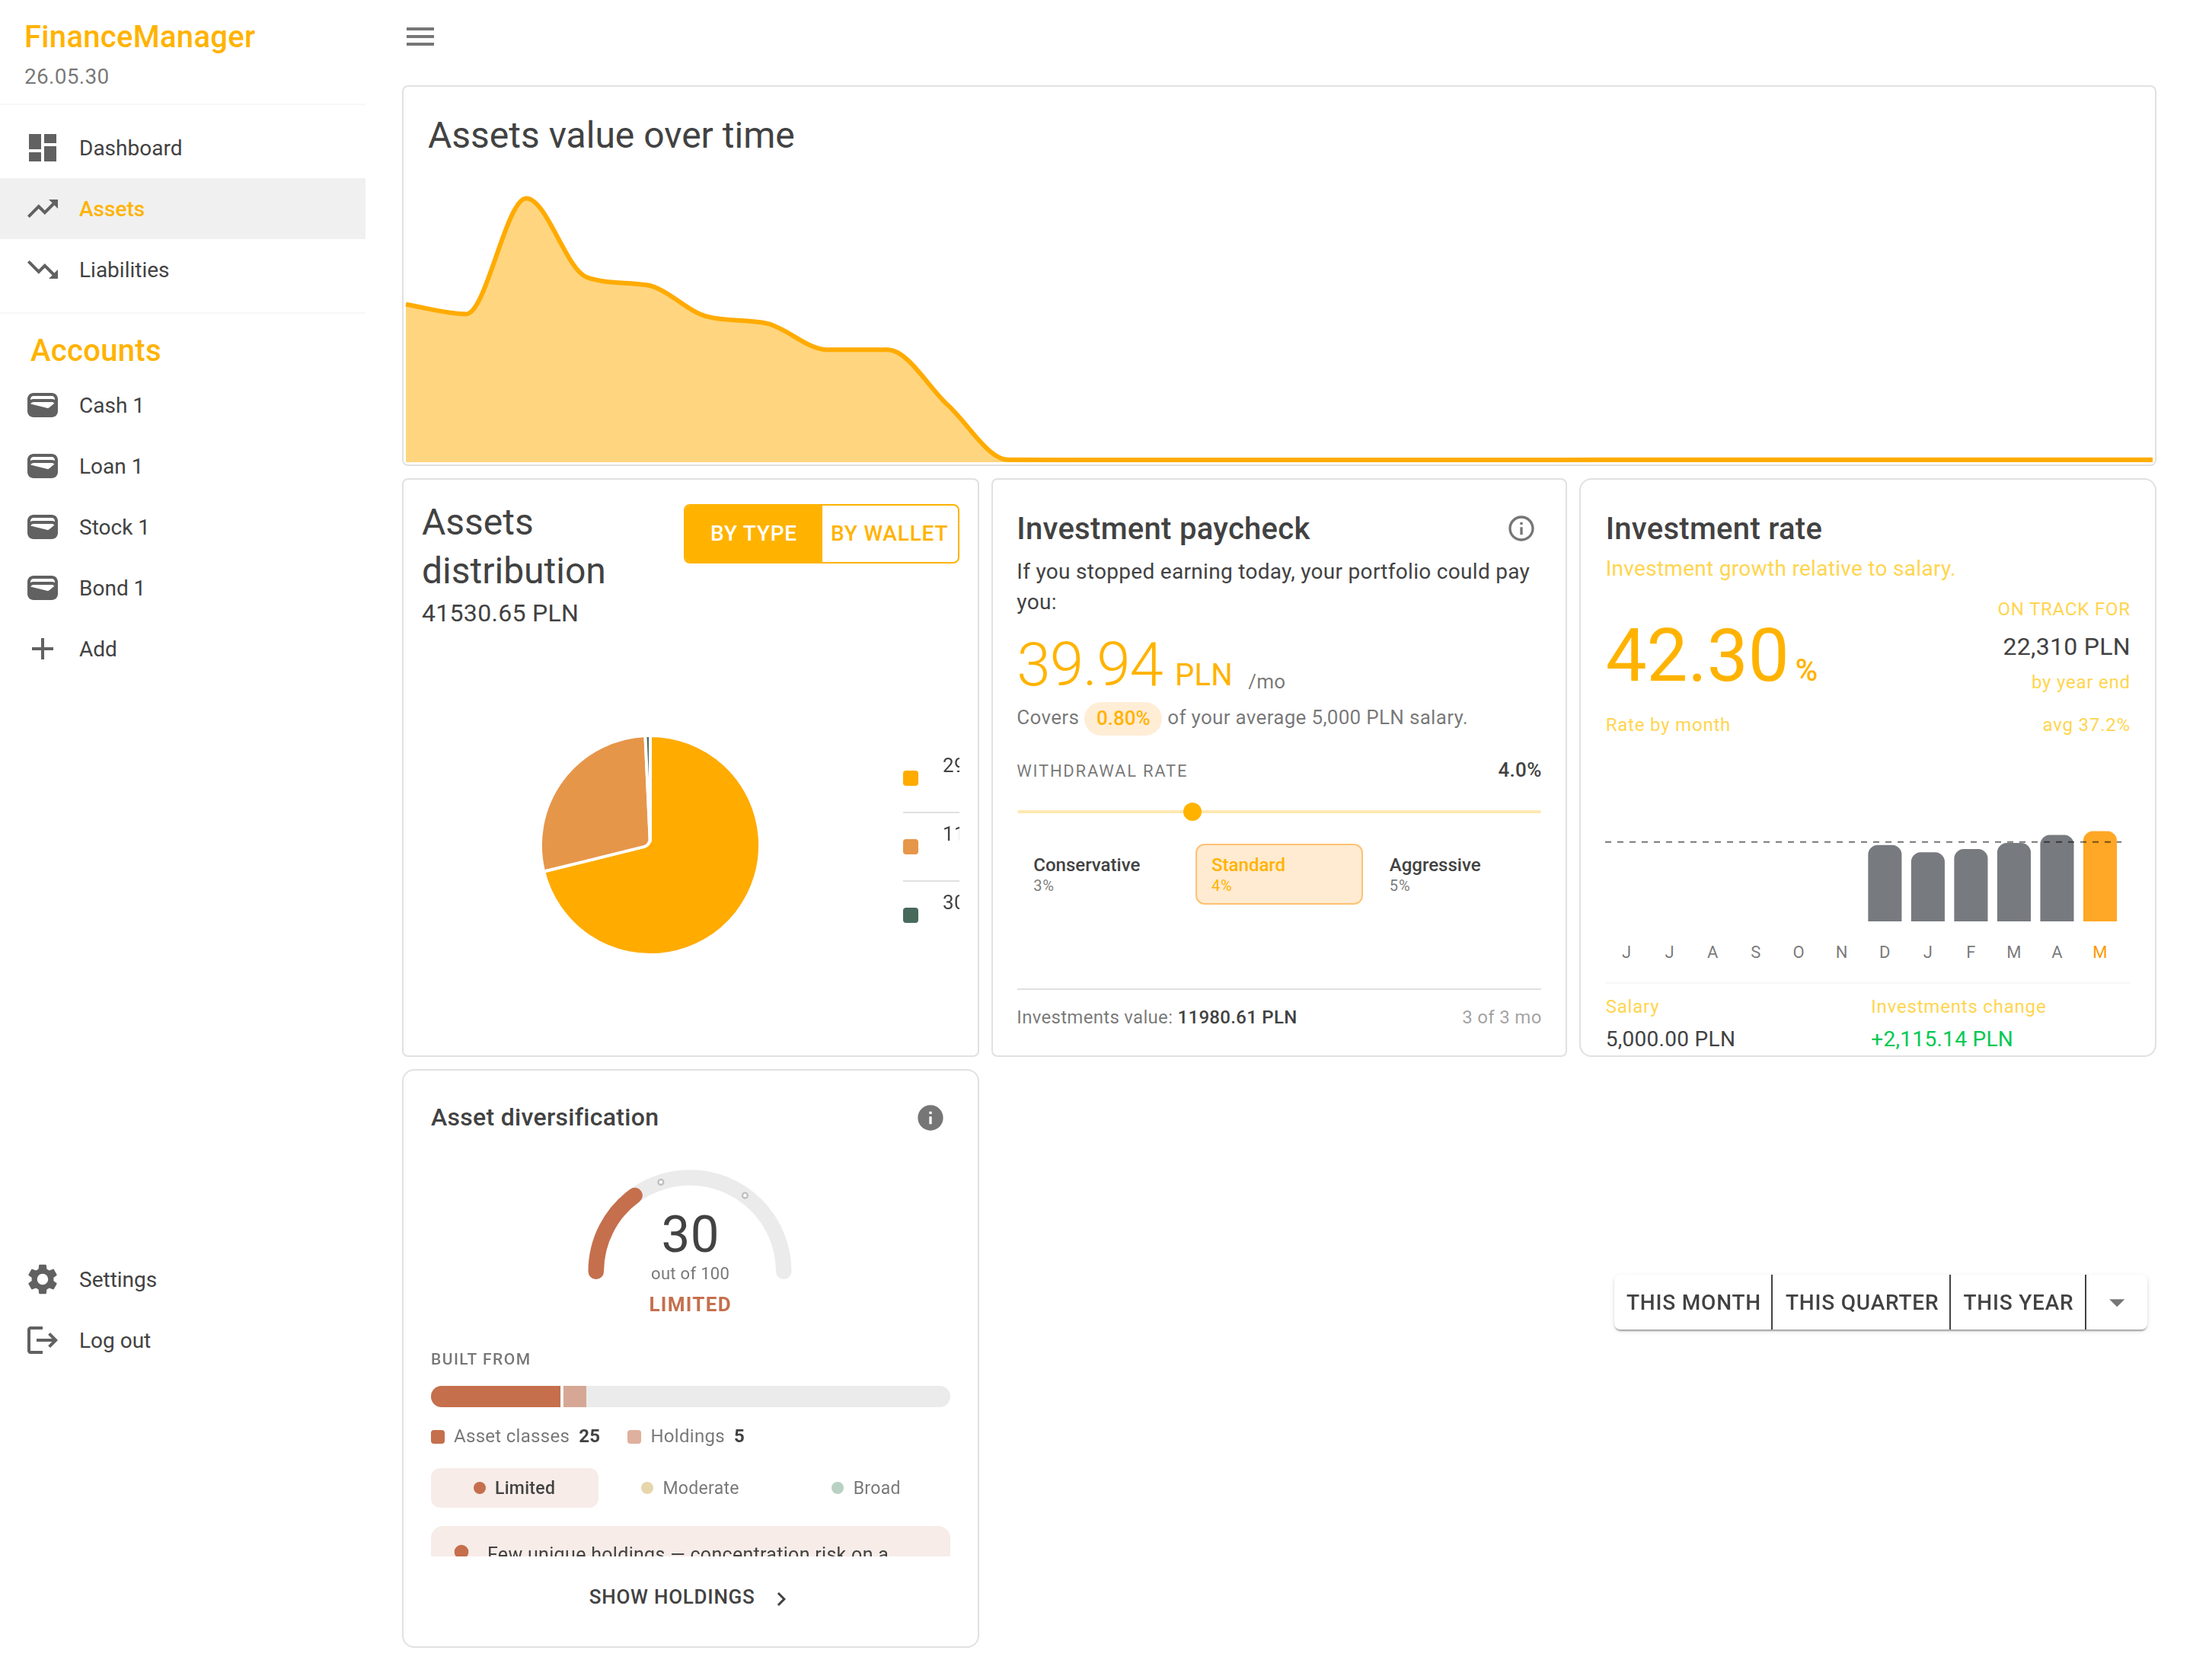
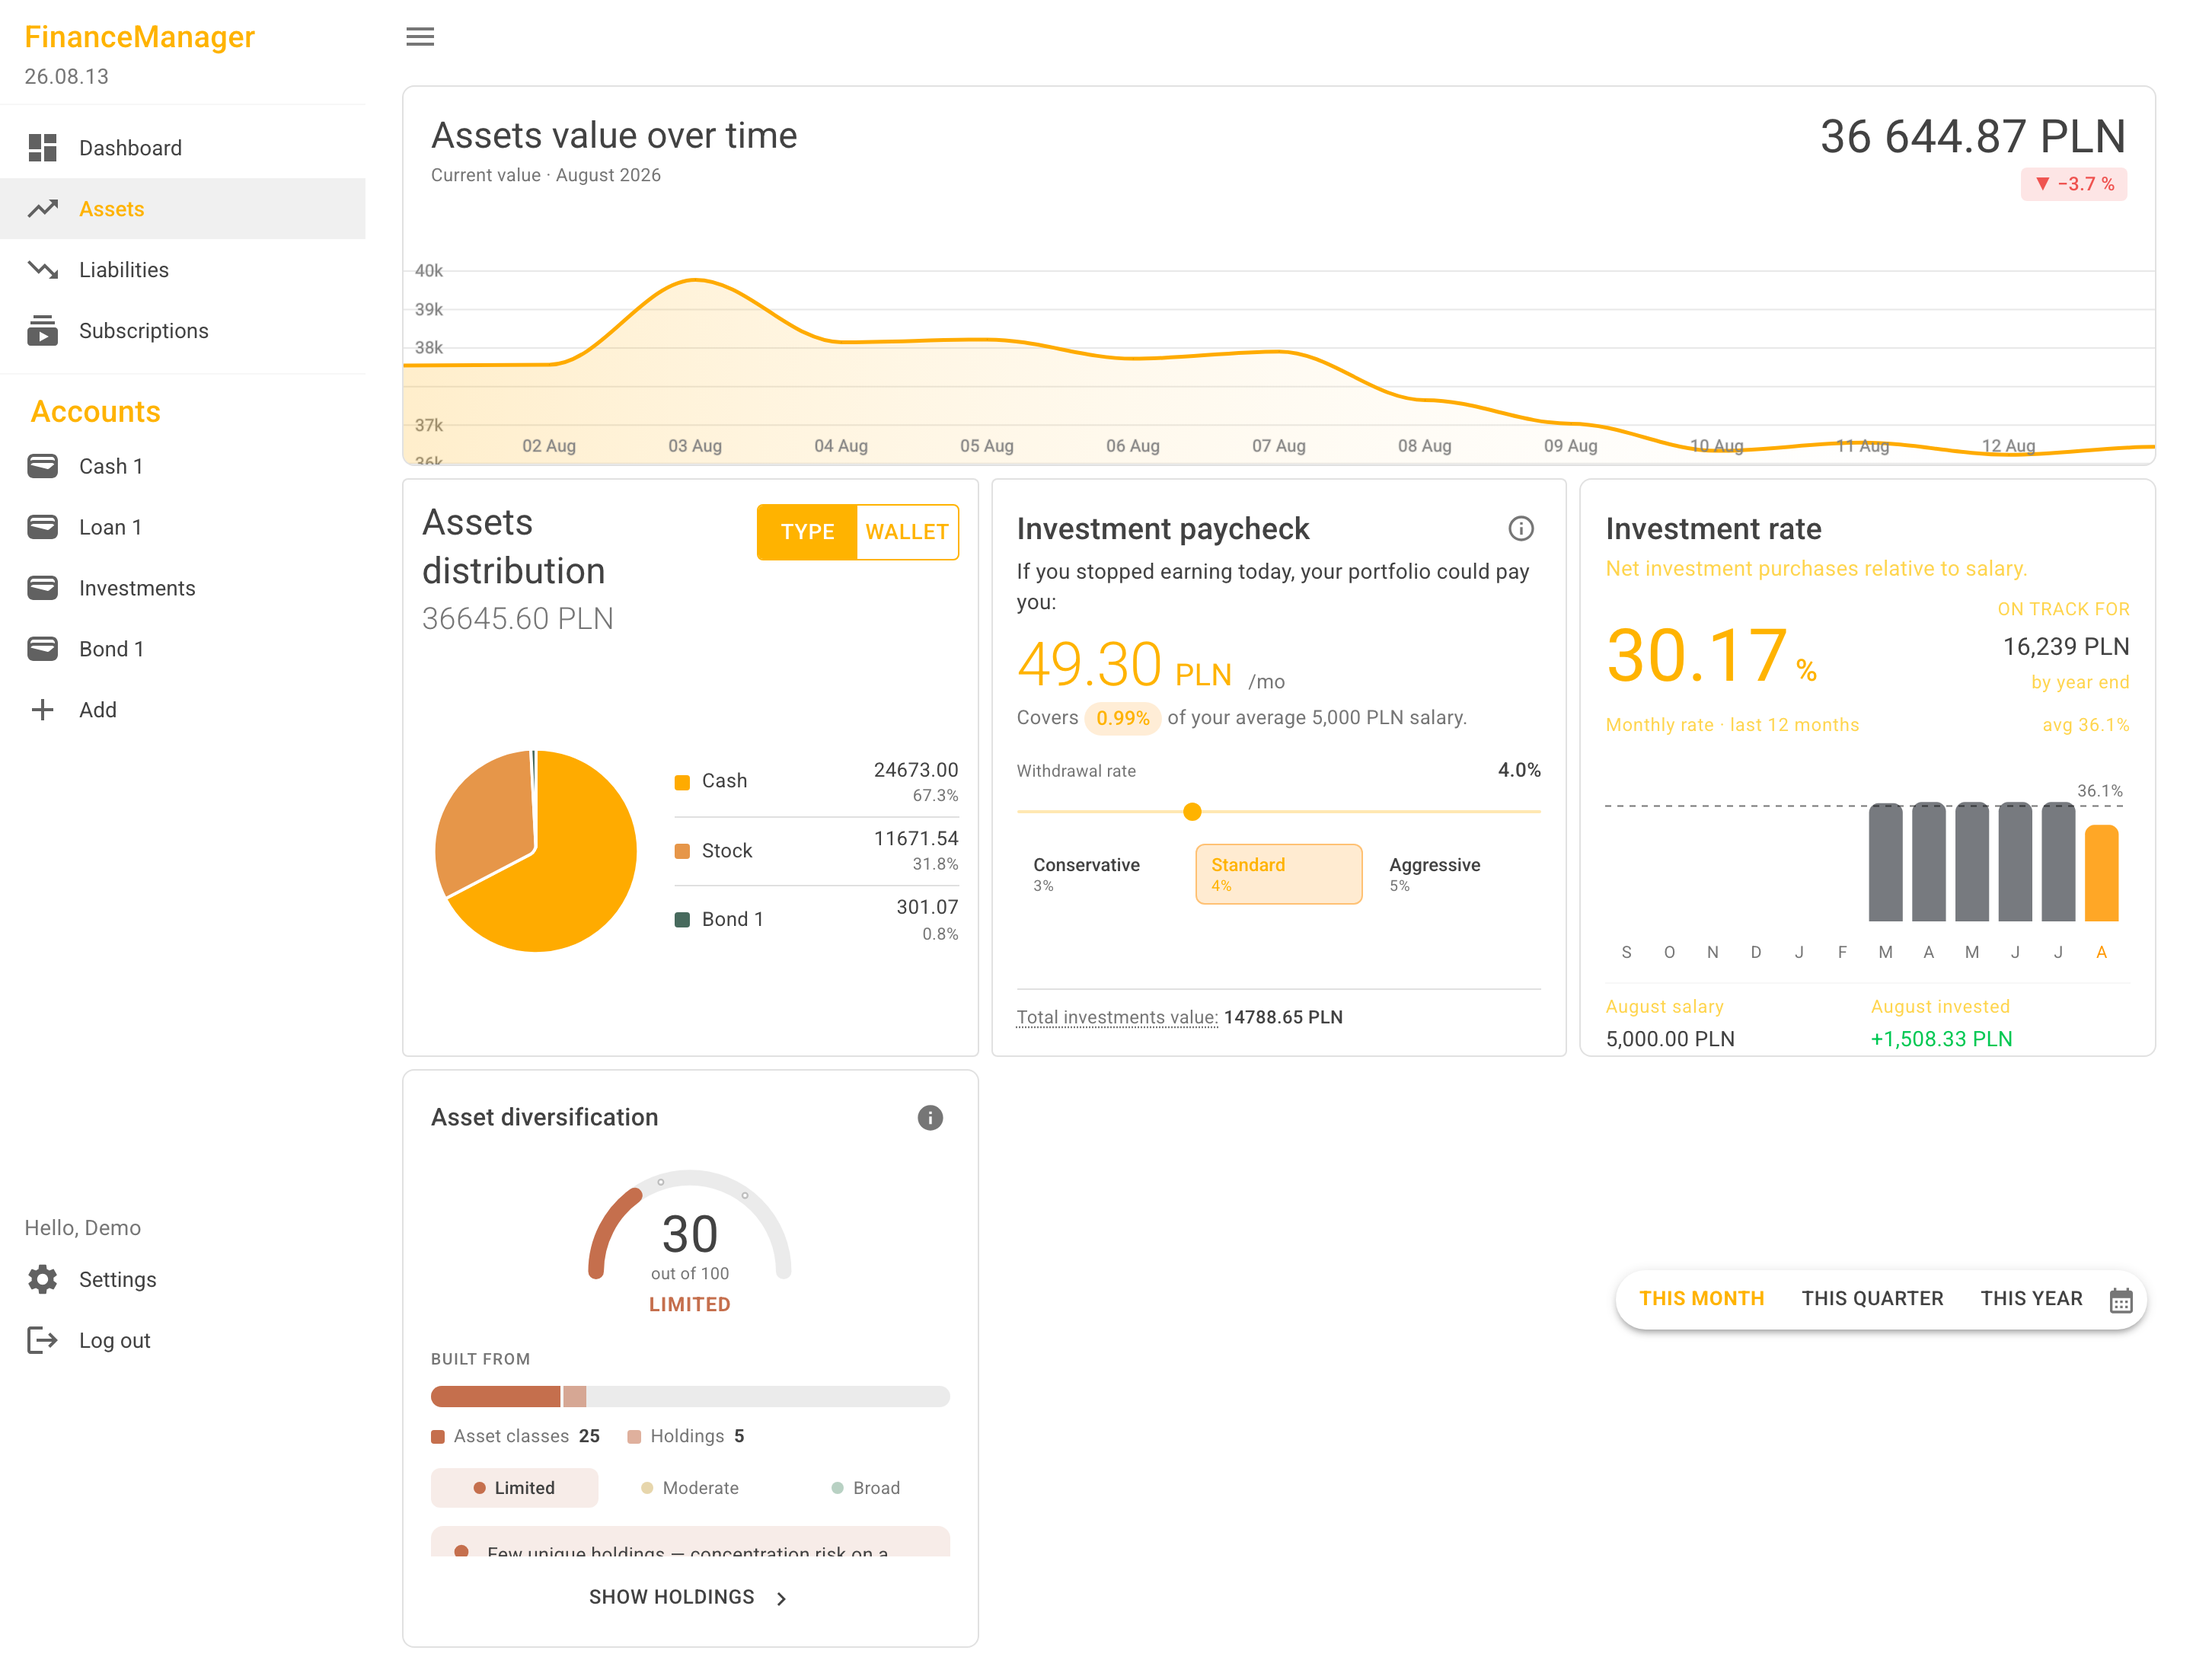
Refresh README content and screenshots #687 (#694)

diff --git a/README.md b/README.md
@@ -56,13 +56,17 @@ Three account types are fully supported, each with dedicated views:
 | Account type | What it tracks |
 |---|---|
 | **Currency** | Cash balances and everyday transactions |
-| **Stock** | Equity holdings with live price updates |
+| **Investment** | Stocks and other listed instruments with live price updates |
 | **Bond** | Fixed-income securities, including inflation-linked bonds |
+
+### Subscriptions
+- Detect recurring charges from transaction history
+- Review upcoming payments, price changes, monthly and annual costs
+- Flag subscriptions for review or mark them as muted, cancelled, or active
 
 ### Data Management
 - **CSV Import / Export** — bring in transaction history from external sources; map custom CSV headers; resolve import conflicts
-- **Bulk stock price import** — seed historical price data in one operation
-- **Multi-account import** — import several accounts in a single workflow
+- **Investment catalogue import** — maintain the instruments available to investment accounts
 
 ### Real-Time Market Data
 - Live stock prices via the **Alpha Vantage** API
@@ -72,11 +76,13 @@ Three account types are fully supported, each with dedicated views:
 ### AI-Powered Features
 - **Financial Insights** — large-language-model analysis of your transaction history delivered as actionable cards
 - **Automatic account labelling** — AI suggests category labels (Cash, Stock, Bond, Crypto, Loan, Real Estate, …) for new accounts
+- **MCP integration** — connect ChatGPT, Claude, and other MCP clients through OAuth without copying an API key or password
 - Configurable **provider chain** with automatic fallback: OpenRouter → GitHub Models → Ollama / LM Studio (local)
 
 ### User & Admin
-- JWT-based authentication with registration and login
-- Role-based admin panel for managing users, AI provider configuration, stock catalogue, and bond data
+- JWT-based authentication with registration, login, and password recovery
+- User settings for profile details, preferred currency, investment benchmark, password, and subscription plan
+- Role-based admin panel for managing users, AI providers, service keys, investment instruments, bond data, and application logs
 
 ---
 
@@ -134,7 +140,7 @@ dotnet ef database update -s code/FinanceManager.Api/FinanceManager.Api.csproj
 dotnet run --project code/FinanceManager.Api
 ```
 
-Then open `https://localhost:5001` in your browser.
+Then open the application URL printed by `dotnet run` (the HTTPS launch profile uses `https://localhost:5001`).
 
 For production backup, restore, and rollback steps on Supabase, see [RUNBOOK.md](RUNBOOK.md).
 
@@ -144,13 +150,12 @@ Run from inside the `code/` directory so the test runner can locate `global.json
 cd code
 
 # All tests
-dotnet test --project ./FinanceManager.Tests.Unit/FinanceManager.Tests.Unit.csproj
-dotnet test --project ./FinanceManager.Tests.Integration/FinanceManager.Tests.Integration.csproj
+dotnet test --project ./FinanceManager.slnx
 
 # Unit tests only
 dotnet test --project ./FinanceManager.Tests.Unit/FinanceManager.Tests.Unit.csproj
 
-# Integration tests (uses in-memory DB)
+# Integration tests (uses an in-memory database in the test host)
 UseInMemoryDatabase=true dotnet test --project ./FinanceManager.Tests.Integration/FinanceManager.Tests.Integration.csproj
 ```
 
